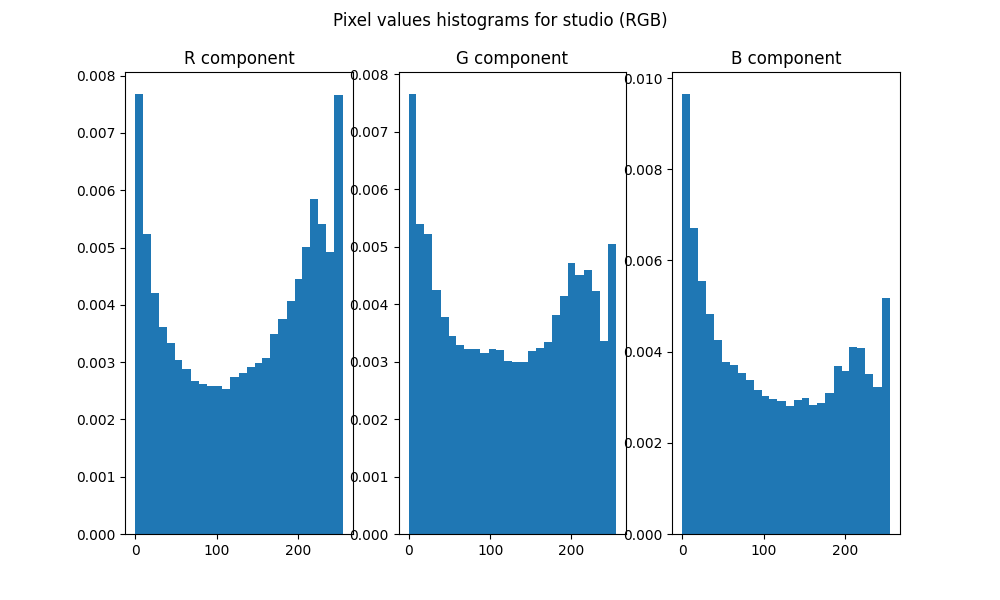
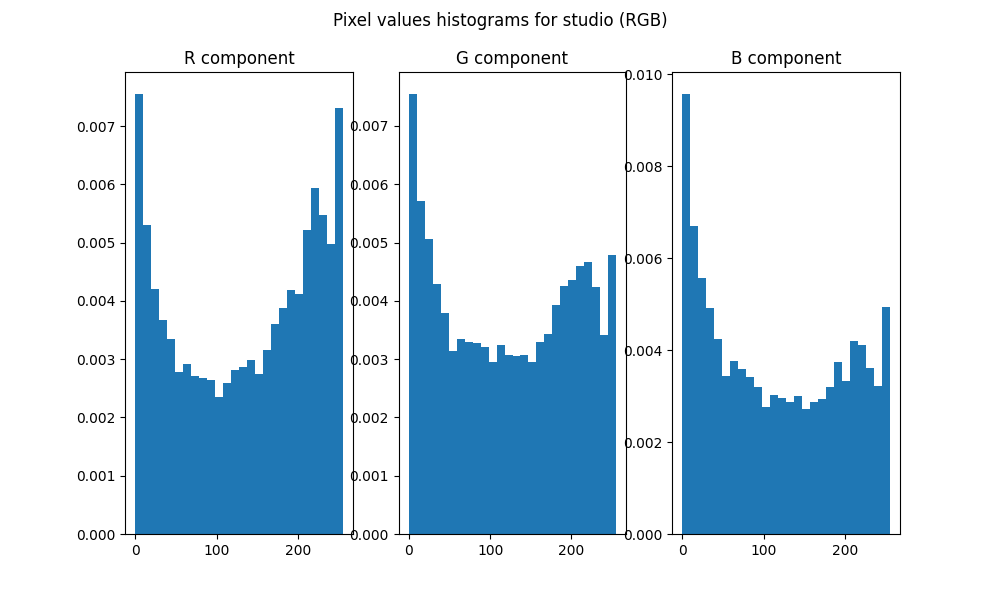
clean data_analysis

diff --git a/uc3_data_analysis.py b/uc3_data_analysis.py
@@ -1,53 +1,86 @@
 import numpy as np
 import matplotlib.pyplot as plt
+
+# import colour
 from uc3 import IMGS_REPORT, IMGS_STUDIO
-from lib.histogram import compute_bins_count, compute_bins_edges
+from lib.histogram import compute_bins_count
 
 imgs_studio = np.array(IMGS_STUDIO, dtype=object)
 imgs_report = np.array(IMGS_REPORT, dtype=object)
 
-# Extract the RGB pixel values from each image and store them in a list
-pixel_values_studio = [img.reshape(-1, 3) for img in imgs_studio]
-pixel_values_studio = np.vstack(pixel_values_studio)
+# imgs_studio_hsv = np.empty(imgs_studio.shape, dtype=object)
+# imgs_report_hsv = np.empty(imgs_report.shape, dtype=object)
 
-pixel_values_report = [img.reshape(-1, 3) for img in imgs_report]
-pixel_values_report = np.vstack(pixel_values_report)
+# for i, img in enumerate(imgs_studio):
+#     if len(img.shape) == 2:
+#         # Components correction
+#         img_rgb = np.empty((img.shape[0], img.shape[1], 3))
+#         img_rgb[:, :, 0] = img
+#         img_rgb[:, :, 1] = img
+#         img_rgb[:, :, 2] = img
+#         img = img_rgb
+#     imgs_studio_hsv[i] = colour.RGB_to_HSV(img)
+# for i, img in enumerate(imgs_report):
+#     if len(img.shape) == 2:
+#         # Components correction
+#         img_rgb = np.empty((img.shape[0], img.shape[1], 3))
+#         img_rgb[:, :, 0] = img
+#         img_rgb[:, :, 1] = img
+#         img_rgb[:, :, 2] = img
+#         img = img_rgb
+#     imgs_report_hsv[i] = colour.RGB_to_HSV(img)
+
+# # Extract the RGB pixel values from each image and store them in a list
+# pixel_values_studio = [img.reshape(-1, 3) for img in imgs_studio]
+# pixel_values_studio = np.vstack(pixel_values_studio)
+
+# pixel_values_report = [img.reshape(-1, 3) for img in imgs_report]
+# pixel_values_report = np.vstack(pixel_values_report)
+
+# # Extract the HSV pixel values from each image and store them in a list
+# pixel_values_studio_hsv = [img.reshape(-1, 3) for img in imgs_studio_hsv]
+# pixel_values_studio_hsv = np.vstack(pixel_values_studio_hsv)
+
+# pixel_values_report_hsv = [img.reshape(-1, 3) for img in imgs_report_hsv]
+# pixel_values_report_hsv = np.vstack(pixel_values_report_hsv)
+
+
+def stack_images(imgs_origin):
+    imgs = np.array(imgs_origin, dtype=object)
+
+    for img in imgs:
+        if len(img.shape) == 2:
+            # Components correction
+            img_rgb = np.empty((img.shape[0], img.shape[1], 3))
+            img_rgb[:, :, 0] = img
+            img_rgb[:, :, 1] = img
+            img_rgb[:, :, 2] = img
+            img = img_rgb
+
+    # Extract the RGB pixel values from each image and store them in a list
+    pixel_values = [img.reshape(-1, 3) for img in imgs]
+    pixel_values = np.vstack(pixel_values)
+    return pixel_values
 
 
 def components_histograms(pixels, color_space: str, img_class: str):
-    components_ranges = np.asarray(
-        [
-            [
-                np.min(pixels[:, 0]),
-                np.max(pixels[:, 0]),
-            ],
-            [
-                np.min(pixels[:, 1]),
-                np.max(pixels[:, 1]),
-            ],
-            [
-                np.min(pixels[:, 2]),
-                np.max(pixels[:, 2]),
-            ],
-        ],
-        dtype=np.uint32,
-    )
     bins_count = compute_bins_count("sturges", pixels.shape[0])
-    bins_edges = compute_bins_edges(bins_count, components_ranges)
 
     fig, axes = plt.subplots(1, 3)
     fig.suptitle(f"Pixel values histograms for {img_class} ({color_space})")
     fig.set_figheight(6)
     fig.set_figwidth(10)
     axes[0].set_title(f"{color_space[0]} component")
-    axes[0].hist(pixels[:, 0], bins_edges[0], density=True)
+    axes[0].hist(pixels[:, 0], bins_count, density=True)
     axes[1].set_title(f"{color_space[1]} component")
-    axes[1].hist(pixels[:, 1], bins_edges[1], density=True)
+    axes[1].hist(pixels[:, 1], bins_count, density=True)
     axes[2].set_title(f"{color_space[2]} component")
-    axes[2].hist(pixels[:, 2], bins_edges[2], density=True)
+    axes[2].hist(pixels[:, 2], bins_count, density=True)
     plt.savefig(f"out/{img_class}_{color_space}_hist.png")
     plt.show()
 
 
-components_histograms(pixel_values_studio, "RGB", "studio")
-components_histograms(pixel_values_report, "RGB", "report")
+imgs_studio_stacked = stack_images(IMGS_STUDIO)
+imgs_report_stacked = stack_images(IMGS_REPORT)
+components_histograms(imgs_studio_stacked, "RGB", "studio")
+components_histograms(imgs_report_stacked, "RGB", "report")

diff --git a/lib/histogram.py b/lib/histogram.py
@@ -1,6 +1,7 @@
 import numpy as np
 
-def compute_bins_count(method:str, n:int):
+
+def compute_bins_count(method: str, n: int):
     """Compute the number of bins from the selected method for n elements
 
     Args:
@@ -10,15 +11,14 @@ def compute_bins_count(method:str, n:int):
     Returns:
         _type_: _description_
     """
-    if (method == "sturges"):
+    if method == "sturges":
         bins_count = 1 + np.log2(n)
-    elif(method == 'rice'):
-        bins_count = 2*np.cbrt(n)
-    elif (method == "sqrt"):
+    elif method == "rice":
+        bins_count = 2 * np.cbrt(n)
+    elif method == "sqrt":
         bins_count = np.sqrt(n)
-    
-    print(f"Computed bins_count with {method} method for {n} elements): ",int(bins_count))
     return int(bins_count)
+
 
 def compute_bins_edges(bins_count: int, components_ranges):
     """Compute the number of bins from the selected method for n elements
@@ -30,6 +30,7 @@ def compute_bins_edges(bins_count: int, components_ranges):
     Returns:
         np.ndarray: Array of edges of each histogram bin
     """
+
     if len(components_ranges.shape) == 1:
         step = (components_ranges[1] - components_ranges[0]) / (bins_count)
         bins_edges = np.arange(components_ranges[0], components_ranges[1] + step, step)

diff --git a/lib/color_space.py b/lib/color_space.py
@@ -1,4 +1,5 @@
 import numpy as np
+import colour
 
 def rgb_to_lab(img):
     """Convert RGB images to Lab and cast values as int
